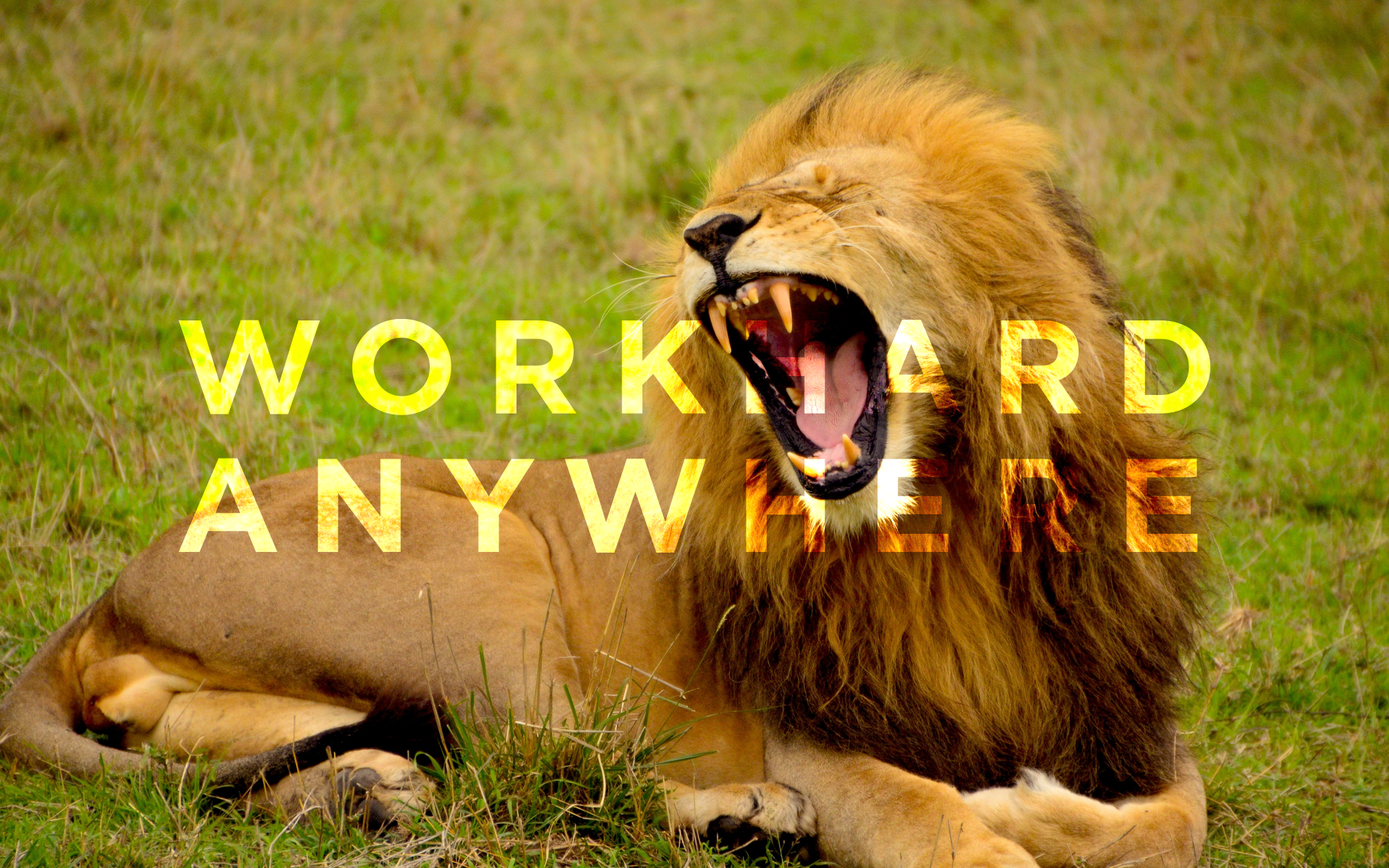
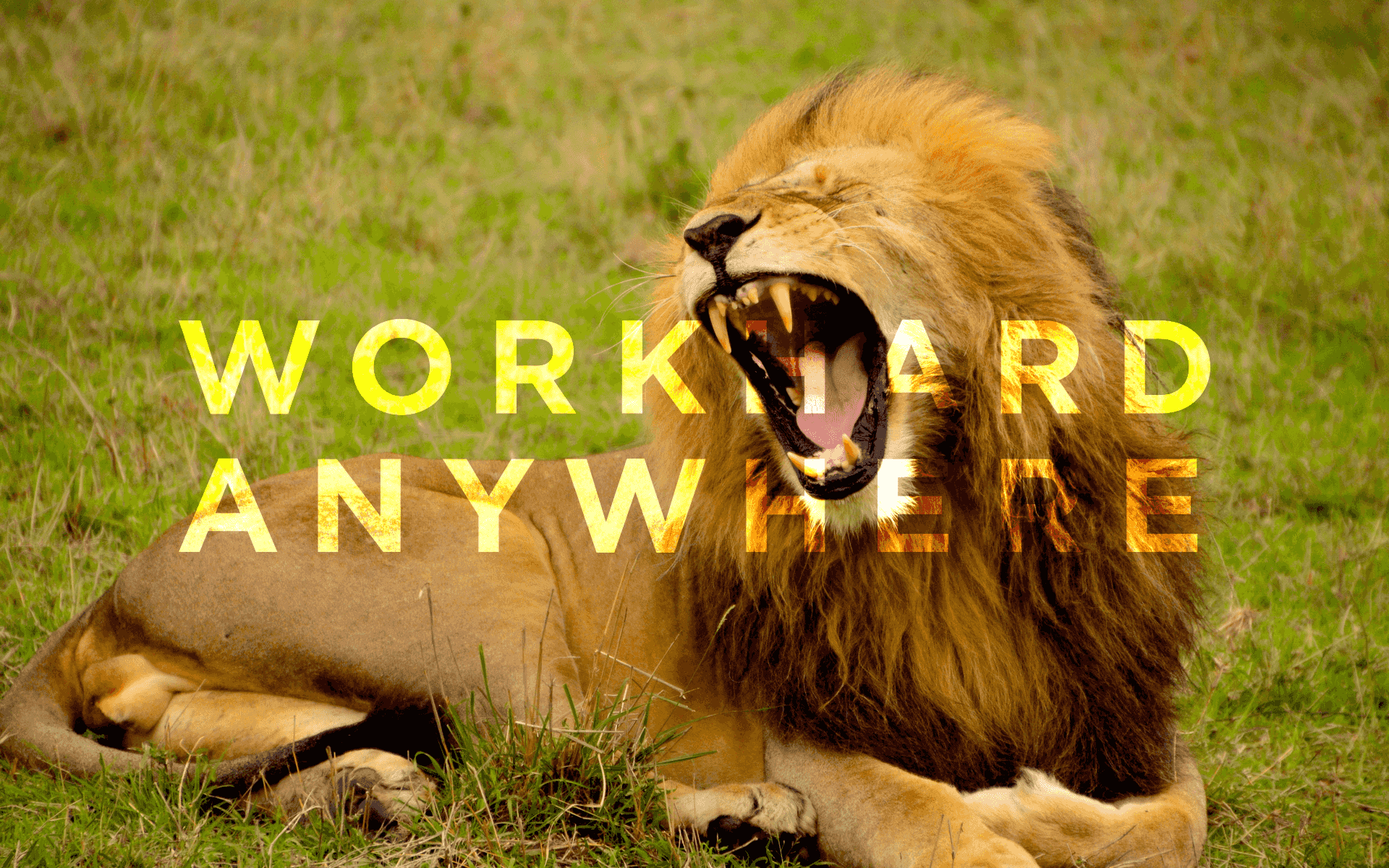
backdrop-filter doesnt work in chrome/edge/firefox so using a workaround

diff --git a/assets/css/style.css b/assets/css/style.css
@@ -10,12 +10,21 @@ body {
   flex-direction: column;
   justify-content: center;
   align-items: center;
-  -webkit-backdrop-filter: blur(5px);
-  color: white;
-  background-image: linear-gradient(0deg, rgba(0, 0, 0, 0.54902), rgba(0, 0, 0, 0.54902)), url(../img/1920x1200.png);
-  background-size: cover;
-  background-position: center;
-  background-repeat: no-repeat; }
+  color: white; }
+  body::before {
+    background-image: linear-gradient(0deg, rgba(0, 0, 0, 0.54902), rgba(0, 0, 0, 0.54902)), url(../img/1920x1200.png);
+    background-size: cover;
+    background-position: center;
+    background-repeat: no-repeat;
+    content: '';
+    margin: -35px;
+    position: absolute;
+    top: 0;
+    right: 0;
+    bottom: 0;
+    left: 0;
+    filter: blur(5px);
+    z-index: -1; }
   body h1, body h2, body h3, body h4, body h5, body h6 {
     font-weight: 300; }
 
@@ -25,18 +34,21 @@ body {
     display: flex;
     justify-content: center;
     align-items: center;
-    background: salmon;
     padding: 15px 30px;
-    border-radius: 3px;
+    border-radius: 5px;
+    border-width: 2px;
+    border-color: white;
+    border-style: solid;
     text-decoration: none;
-    color: black;
+    color: white;
     transition: 300ms padding cubic-bezier(0, 2.08, 0.44, 1.13), 300ms background ease-in-out; }
     .download a svg {
       margin-left: 5px; }
+      .download a svg path {
+        fill: white; }
     .download a:hover {
-      background: #f85441;
+      background: #ccac00;
       box-shadow: 0px 0px 20px rgba(0, 0, 0, 0.12), 0px 0px 20px rgba(0, 0, 0, 0.12);
-      color: white;
       padding: 15px 40px; }
       .download a:hover svg path {
         fill: white; }

diff --git a/assets/css/style.sass b/assets/css/style.sass
@@ -11,13 +11,22 @@ body
   flex-direction: column
   justify-content: center
   align-items: center
-  -webkit-backdrop-filter: blur(5px)
   color: white
-  background:
-    image: linear-gradient(0deg, rgba(0, 0, 0, 0.54902), rgba(0, 0, 0, 0.54902)), url(../img/1920x1200.png)
-    size: cover
-    position: center
-    repeat: no-repeat
+  &::before
+    background:
+      image: linear-gradient(0deg, rgba(0, 0, 0, 0.54902), rgba(0, 0, 0, 0.54902)), url(../img/1920x1200.png)
+      size: cover
+      position: center
+      repeat: no-repeat
+    content: ''
+    margin: -35px
+    position: absolute
+    top: 0
+    right: 0
+    bottom: 0
+    left: 0
+    filter: blur(5px)
+    z-index: -1
   h1,h2,h3,h4,h5,h6
     font-weight: 300
 
@@ -38,18 +47,22 @@ body
     display: flex
     justify-content: center
     align-items: center
-    background: salmon
     padding: 15px 30px
-    border-radius: 3px
+    border:
+      radius: 5px
+      width: 2px
+      color: white
+      style: solid
     text-decoration: none
-    color: black
+    color: white
     transition: 300ms padding cubic-bezier(0, 2.08, 0.44, 1.13), 300ms background ease-in-out
     svg
       margin-left: 5px
+      path
+        fill: white
     &:hover
-      background: darken(salmon, 10%)
+      background: darken(gold, 10%)
       box-shadow: 0px 0px 20px rgba(0, 0, 0, 0.12), 0px 0px 20px rgba(0, 0, 0, 0.12)
-      color: white
       padding: 15px 40px
       svg
         path
